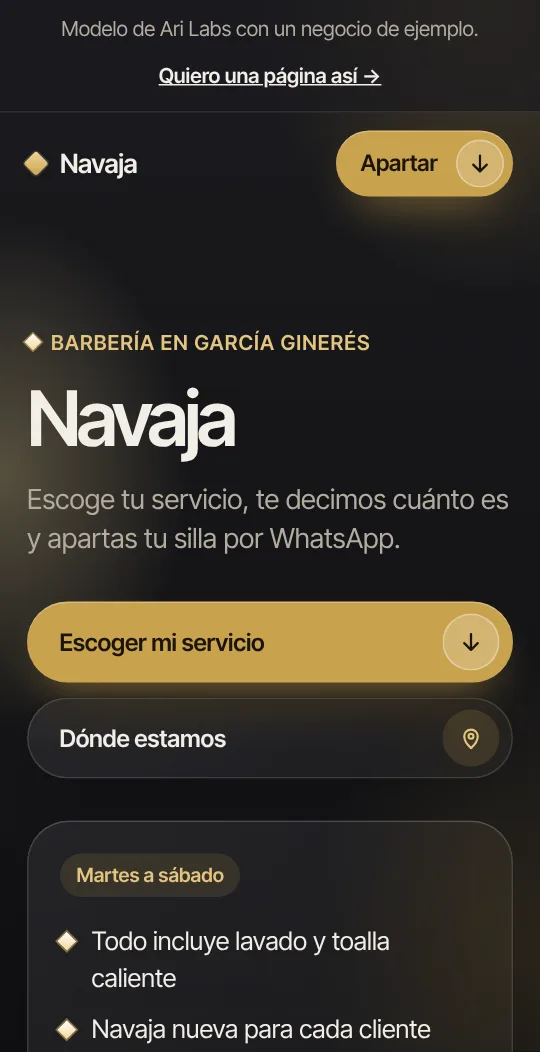
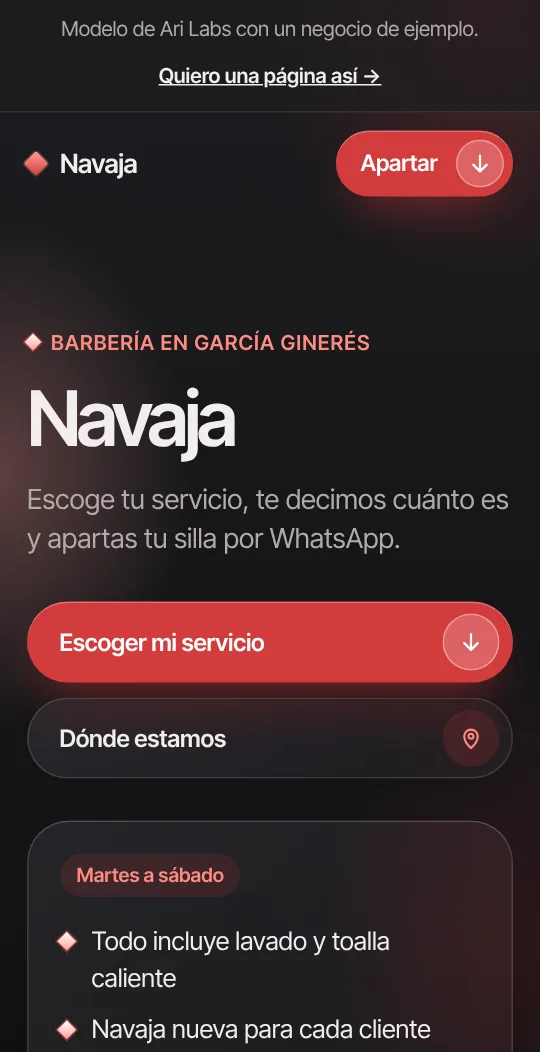
Paletas escogidas por Javi: Mis citas ciruela, Chela rosa mexicano, Navaja poste rojo, Flamboyán lavanda
Claude-Session: https://claude.ai/code/session_01Kc7UqCn6E9o6Li3sPnE4yz

diff --git a/diseno/capturas/mis-citas.html b/diseno/capturas/mis-citas.html
@@ -4,7 +4,7 @@
 <meta charset="utf-8">
 <meta name="viewport" content="width=360">
 <title>Mis citas · pantallas para la web</title>
-<!-- Pantallas de Mis citas dibujadas con el acabado de Ari Labs (su color: esmeralda).
+<!-- Pantallas de Mis citas dibujadas con el acabado de Ari Labs (su color: ciruela).
      Se abren con ?p=claro, ?p=oscuro o ?p=detalle y se fotografían a 360x760 con escala 1.5 (540x1140).
      Regenerar: node diseno/capturas/sacar.js (ver ese archivo). -->
 <link rel="preconnect" href="https://fonts.googleapis.com">
@@ -12,22 +12,22 @@
 <link href="https://fonts.googleapis.com/css2?family=Inter+Tight:wght@400;500;600&display=swap" rel="stylesheet">
 <style>
   :root{
-    --fondo:#eef5f2; --fondo2:#f8fbfa; --tinta:#1d2a26; --suave:#56655f; --linea:rgba(255,255,255,.8);
+    --fondo:#f3ecf5; --fondo2:#fcf9fd; --tinta:#2a1b2f; --suave:#685a6d; --linea:rgba(255,255,255,.8);
     --vidrio:rgba(255,255,255,.55); --vidrio2:rgba(255,255,255,.3);
-    --esmeralda:#169a72; --esmeralda2:#5fd3ad; --noche:#25302d; --chip:rgba(22,154,114,.12); --chip-t:#0f7556;
-    --alerta:rgba(214,140,40,.14); --alerta-t:#8a5310; --sombra:0 18px 40px -26px rgba(29,42,38,.45);
+    --esmeralda:#8a3f9e; --esmeralda2:#c98bdc; --noche:#2f2433; --chip:rgba(138,63,158,.12); --chip-t:#7a3290;
+    --alerta:rgba(214,140,40,.14); --alerta-t:#8a5310; --sombra:0 18px 40px -26px rgba(42,27,47,.45);
   }
   .oscuro{
-    --fondo:#0d1513; --fondo2:#131e1b; --tinta:#eaf3ef; --suave:#9fb2aa; --linea:rgba(255,255,255,.12);
+    --fondo:#120d15; --fondo2:#1b141f; --tinta:#f3ecf5; --suave:#b3a6b8; --linea:rgba(255,255,255,.12);
     --vidrio:rgba(255,255,255,.07); --vidrio2:rgba(255,255,255,.03);
-    --noche:#eaf3ef; --chip:rgba(95,211,173,.14); --chip-t:#8ee6c6; --alerta:rgba(240,170,80,.14); --alerta-t:#f3c27c;
+    --noche:#f3ecf5; --chip:rgba(201,139,220,.14); --chip-t:#e3b6ef; --alerta:rgba(240,170,80,.14); --alerta-t:#f3c27c;
     --sombra:0 18px 40px -26px rgba(0,0,0,.8);
   }
   *{box-sizing:border-box;margin:0}
   html,body{width:360px;height:760px;overflow:hidden}
   body{font:400 14px/1.4 "Inter Tight",system-ui,sans-serif;color:var(--tinta);-webkit-font-smoothing:antialiased;
-    background:radial-gradient(90% 40% at 85% 0%,rgba(95,211,173,.32),transparent 70%),radial-gradient(70% 40% at 0% 60%,rgba(100,182,255,.16),transparent 70%),linear-gradient(180deg,var(--fondo2),var(--fondo))}
-  .oscuro body,body.oscuro{background:radial-gradient(90% 40% at 85% 0%,rgba(22,154,114,.38),transparent 70%),radial-gradient(70% 40% at 0% 70%,rgba(100,182,255,.1),transparent 70%),linear-gradient(180deg,var(--fondo2),var(--fondo))}
+    background:radial-gradient(90% 40% at 85% 0%,rgba(201,139,220,.32),transparent 70%),radial-gradient(70% 40% at 0% 60%,rgba(100,182,255,.16),transparent 70%),linear-gradient(180deg,var(--fondo2),var(--fondo))}
+  .oscuro body,body.oscuro{background:radial-gradient(90% 40% at 85% 0%,rgba(138,63,158,.38),transparent 70%),radial-gradient(70% 40% at 0% 70%,rgba(100,182,255,.1),transparent 70%),linear-gradient(180deg,var(--fondo2),var(--fondo))}
   .pantalla{position:relative;height:760px;padding:0 18px;display:flex;flex-direction:column;gap:14px}
   .estado{display:flex;justify-content:space-between;align-items:center;height:38px;padding:0 8px;font-weight:600;font-size:13px}
   .estado i{display:inline-flex;gap:5px;align-items:center}
@@ -42,17 +42,17 @@
   .circ{display:grid;place-items:center;width:30px;height:30px;border-radius:50%;flex:none}
   .circ svg{width:15px;height:15px}
   .pildora{display:inline-flex;align-items:center;justify-content:space-between;gap:8px;height:40px;padding:0 5px 0 14px;border-radius:999px;font-weight:600;font-size:13px}
-  .pildora.principal{background:#1d2a26;color:#f4faf7;box-shadow:inset 0 1px 0 rgba(255,255,255,.18),0 10px 20px -12px rgba(0,0,0,.6)}
-  .pildora.principal .circ{background:linear-gradient(135deg,#9ff0d2,#5fd3ad);color:#0b3a2b}
+  .pildora.principal{background:#2a1b2f;color:#fbf6fd;box-shadow:inset 0 1px 0 rgba(255,255,255,.18),0 10px 20px -12px rgba(0,0,0,.6)}
+  .pildora.principal .circ{background:linear-gradient(135deg,#ecc8f5,#c98bdc);color:#3a1446}
   .pildora.cristal{background:rgba(255,255,255,.22);color:#fff;box-shadow:inset 0 0 0 1px rgba(255,255,255,.45)}
   .pildora.cristal .circ{background:rgba(255,255,255,.22);color:#fff}
   /* la próxima cita: placa de vidrio sobre esmeralda */
   .proxima{position:relative;overflow:hidden;border-radius:26px;padding:16px;color:#f2fbf7;
-    background:radial-gradient(120% 90% at 100% 0%,rgba(159,240,210,.55),transparent 55%),linear-gradient(140deg,#1aa77c,#0e7a5b);
-    box-shadow:inset 0 0 0 1px rgba(255,255,255,.35),inset 0 1px 0 rgba(255,255,255,.6),0 24px 40px -24px rgba(14,122,91,.8)}
+    background:radial-gradient(120% 90% at 100% 0%,rgba(236,200,245,.55),transparent 55%),linear-gradient(140deg,#9b4bb0,#6e2c82);
+    box-shadow:inset 0 0 0 1px rgba(255,255,255,.35),inset 0 1px 0 rgba(255,255,255,.6),0 24px 40px -24px rgba(110,44,130,.8)}
   .proxima::after{content:"";position:absolute;inset:-30% auto -30% 55%;width:30%;rotate:18deg;background:linear-gradient(90deg,transparent,rgba(255,255,255,.22),transparent)}
   .cuenta{display:inline-flex;align-items:center;gap:6px;padding:5px 10px;border-radius:999px;background:rgba(255,255,255,.18);font-size:11.5px;font-weight:600;box-shadow:inset 0 0 0 1px rgba(255,255,255,.3)}
-  .cuenta::before{content:"";width:6px;height:6px;border-radius:50%;background:#c9ffe9;box-shadow:0 0 8px #c9ffe9}
+  .cuenta::before{content:"";width:6px;height:6px;border-radius:50%;background:#f6dcff;box-shadow:0 0 8px #f6dcff}
   .proxima .hora{font-size:28px;font-weight:600;letter-spacing:-.04em;line-height:1;margin:12px 0 6px}
   .proxima .quien{font-weight:600;font-size:14px}
   .proxima .donde{opacity:.85;font-size:12.5px;margin:2px 0 14px}
@@ -61,9 +61,9 @@
   .dia{display:grid;justify-items:center;gap:3px;padding:8px 0 7px;border-radius:16px;font-size:11px;color:var(--suave)}
   .dia b{font-size:16px;font-weight:600;color:var(--tinta);letter-spacing:-.02em}
   .dia i{width:4px;height:4px;border-radius:50%;background:var(--esmeralda2)}
-  .dia.hoy{background:#1d2a26;color:#cfe9df;box-shadow:0 10px 20px -12px rgba(0,0,0,.6)}
+  .dia.hoy{background:#2a1b2f;color:#ead6f1;box-shadow:0 10px 20px -12px rgba(0,0,0,.6)}
   .dia.hoy b{color:#fff}
-  .oscuro .dia.hoy{background:linear-gradient(140deg,#1aa77c,#0e7a5b)}
+  .oscuro .dia.hoy{background:linear-gradient(140deg,#9b4bb0,#6e2c82)}
   .titulo-lista{display:flex;justify-content:space-between;align-items:center}
   .titulo-lista h2{font-size:19px;font-weight:600;letter-spacing:-.03em}
   .seg{display:flex;padding:3px;border-radius:999px;font-size:12px;font-weight:600}
@@ -79,8 +79,8 @@
   .chip{font-size:11px;font-weight:600;padding:3px 8px;border-radius:999px;background:var(--chip);color:var(--chip-t)}
   .chip.debe{background:var(--alerta);color:var(--alerta-t)}
   .lugar{display:flex;align-items:center;gap:6px;font-size:12px;color:var(--suave)}
-  .lugar::before{content:"";width:6px;height:6px;rotate:45deg;background:linear-gradient(135deg,#fff,var(--esmeralda2));box-shadow:0 0 0 1px rgba(22,154,114,.45)}
-  .oscuro .arriba .pildora.principal{background:#eaf3ef;color:#0d1513}
+  .lugar::before{content:"";width:6px;height:6px;rotate:45deg;background:linear-gradient(135deg,#fff,var(--esmeralda2));box-shadow:0 0 0 1px rgba(138,63,158,.45)}
+  .oscuro .arriba .pildora.principal{background:#f3ecf5;color:#120d15}
   .menu{position:absolute;left:14px;right:14px;bottom:18px;height:62px;border-radius:999px;display:grid;grid-template-columns:repeat(5,1fr);align-items:center;padding:0 6px}
   .menu span{display:grid;justify-items:center;gap:2px;font-size:10px;font-weight:600;color:var(--suave)}
   .menu svg{width:19px;height:19px}
@@ -95,12 +95,12 @@
   .accion{display:grid;justify-items:center;gap:6px;padding:12px 0 10px;font-size:11.5px;font-weight:600}
   .accion .circ{width:38px;height:38px;background:var(--chip);color:var(--esmeralda)}
   .accion .circ svg{width:17px;height:17px}
-  .accion.wa .circ{background:linear-gradient(135deg,#9ff0d2,#5fd3ad);color:#0b3a2b}
+  .accion.wa .circ{background:linear-gradient(135deg,#ecc8f5,#c98bdc);color:#3a1446}
   .interruptor{display:flex;justify-content:space-between;align-items:center;padding:12px 16px;font-weight:500}
-  .interruptor+.interruptor{border-top:1px solid rgba(29,42,38,.07)}
-  .tog{width:42px;height:25px;border-radius:999px;background:rgba(29,42,38,.12);position:relative;box-shadow:inset 0 0 0 1px rgba(29,42,38,.06)}
+  .interruptor+.interruptor{border-top:1px solid rgba(42,27,47,.07)}
+  .tog{width:42px;height:25px;border-radius:999px;background:rgba(42,27,47,.12);position:relative;box-shadow:inset 0 0 0 1px rgba(42,27,47,.06)}
   .tog::after{content:"";position:absolute;top:3px;left:3px;width:19px;height:19px;border-radius:50%;background:#fff;box-shadow:0 2px 4px rgba(0,0,0,.2)}
-  .tog.si{background:linear-gradient(135deg,#5fd3ad,#169a72)}
+  .tog.si{background:linear-gradient(135deg,#c98bdc,#8a3f9e)}
   .tog.si::after{left:20px}
   .datos{display:grid;grid-template-columns:1fr 1fr;gap:12px 10px;padding:14px 16px}
   .datos div{display:grid;gap:1px}
@@ -110,7 +110,7 @@
   .canciones h3{font-size:14px;font-weight:600;margin-bottom:8px}
   .canciones ul{list-style:none;padding:0;display:grid;gap:6px;font-size:13px}
   .canciones li{display:flex;gap:9px;align-items:center}
-  .canciones li::before{content:"";width:7px;height:7px;rotate:45deg;background:linear-gradient(135deg,#fff,#5fd3ad);box-shadow:0 0 0 1px rgba(22,154,114,.5);flex:none}
+  .canciones li::before{content:"";width:7px;height:7px;rotate:45deg;background:linear-gradient(135deg,#fff,#c98bdc);box-shadow:0 0 0 1px rgba(138,63,158,.5);flex:none}
 </style>
 </head>
 <body>

diff --git a/index.html b/index.html
@@ -358,12 +358,12 @@
           <a class="boton secundario" href="modelos/restaurante/">Ver modelo<span class="icono"><svg viewBox="0 0 24 24" fill="none" stroke="currentColor" stroke-width="2" stroke-linecap="round" stroke-linejoin="round" aria-hidden="true"><path d="M7 17 17 7M9 7h8v8"/></svg></span></a></div>
         </article>
         <article class="placa hielo inclina">
-          <div class="marco"><img src="img/modelo-barberia.webp" width="540" height="1052" loading="lazy" decoding="async" alt="Modelo de barbería: Navaja, en grafito y latón, con el botón para escoger el servicio."></div>
+          <div class="marco"><img src="img/modelo-barberia.webp" width="540" height="1052" loading="lazy" decoding="async" alt="Modelo de barbería: Navaja, en negro y rojo, con el botón para escoger el servicio."></div>
           <div class="texto"><b>Barbería o estética</b><span>La tabla de precios: marcas tus servicios y sale la cuenta.</span>
           <a class="boton secundario" href="modelos/barberia/">Ver modelo<span class="icono"><svg viewBox="0 0 24 24" fill="none" stroke="currentColor" stroke-width="2" stroke-linecap="round" stroke-linejoin="round" aria-hidden="true"><path d="M7 17 17 7M9 7h8v8"/></svg></span></a></div>
         </article>
         <article class="placa hielo inclina">
-          <div class="marco"><img src="img/modelo-consultorio.webp" width="540" height="1052" loading="lazy" decoding="async" alt="Modelo de consultorio dental: Flamboyán, en rojo sobre blanco, con el botón para apartar cita."></div>
+          <div class="marco"><img src="img/modelo-consultorio.webp" width="540" height="1052" loading="lazy" decoding="async" alt="Modelo de consultorio dental: Flamboyán, en lavanda sobre blanco, con el botón para apartar cita."></div>
           <div class="texto"><b>Consultorio</b><span>Escoges día y hora; la cita llega por WhatsApp.</span>
           <a class="boton secundario" href="modelos/consultorio/">Ver modelo<span class="icono"><svg viewBox="0 0 24 24" fill="none" stroke="currentColor" stroke-width="2" stroke-linecap="round" stroke-linejoin="round" aria-hidden="true"><path d="M7 17 17 7M9 7h8v8"/></svg></span></a></div>
         </article>

diff --git a/modelos/consultorio/index.html b/modelos/consultorio/index.html
@@ -6,16 +6,16 @@
 <title>Clínica Dental Flamboyán · Modelo de consultorio · Ari Labs</title>
 <meta name="description" content="Modelo de página web para consultorio o clínica, de Ari Labs. Negocio de ejemplo.">
 <meta name="robots" content="noindex">
-<meta name="theme-color" content="#fbf5f5">
+<meta name="theme-color" content="#f7f6fe">
 <link rel="icon" href="../../favicon.svg" type="image/svg+xml">
 <link rel="preconnect" href="https://fonts.googleapis.com">
 <link rel="preconnect" href="https://fonts.gstatic.com" crossorigin>
 <link href="https://fonts.googleapis.com/css2?family=Inter+Tight:wght@400;500;600&display=swap" rel="stylesheet">
 <link rel="stylesheet" href="../acabado.css">
 <style>
-  /* Clínica Dental Flamboyán: rojo flamboyán sobre blanco limpio. */
-  :root{ --acento:#d0393f; --acento-claro:#ffb4a8; --acento-texto:#b02a31; --sobre-acento:#fff;
-    --fondo:#f4ecec; --fondo-2:#fdf9f8; --tinta:#2a1c1e; --suave:#6a585a }
+  /* Clínica Dental Flamboyán: lavanda sobre blanco (paleta escogida por Javi). */
+  :root{ --acento:#6d5bd0; --acento-claro:#cdc4fb; --acento-texto:#5a48bb; --sobre-acento:#fff;
+    --fondo:#efedfa; --fondo-2:#fbfaff; --tinta:#1f1b38; --suave:#5f5b78 }
   .cita{display:grid;gap:14px;align-items:start}
   @media (min-width:900px){ .cita{grid-template-columns:minmax(0,1.4fr) minmax(0,1fr)} .resumen{position:sticky;top:96px} }
   fieldset{border:0;margin:0;padding:0 0 18px}

diff --git a/modelos/restaurante/index.html b/modelos/restaurante/index.html
@@ -6,16 +6,16 @@
 <title>La Cocina de Chela · Modelo de restaurante · Ari Labs</title>
 <meta name="description" content="Modelo de página web para restaurante o cocina económica, de Ari Labs. Negocio de ejemplo.">
 <meta name="robots" content="noindex">
-<meta name="theme-color" content="#f7efe8">
+<meta name="theme-color" content="#fdf6f8">
 <link rel="icon" href="../../favicon.svg" type="image/svg+xml">
 <link rel="preconnect" href="https://fonts.googleapis.com">
 <link rel="preconnect" href="https://fonts.gstatic.com" crossorigin>
 <link href="https://fonts.googleapis.com/css2?family=Inter+Tight:wght@400;500;600&display=swap" rel="stylesheet">
 <link rel="stylesheet" href="../acabado.css">
 <style>
-  /* La Cocina de Chela: color achiote sobre un blanco cálido. */
-  :root{ --acento:#c4502a; --acento-claro:#f4b48e; --acento-texto:#a2401d; --sobre-acento:#fff;
-    --fondo:#f3ebe4; --fondo-2:#fbf7f3; --tinta:#2b1e19; --suave:#68564e }
+  /* La Cocina de Chela: rosa mexicano sobre blanco (paleta escogida por Javi). */
+  :root{ --acento:#d6336c; --acento-claro:#ffb3cc; --acento-texto:#b8265a; --sobre-acento:#fff;
+    --fondo:#f8ecf0; --fondo-2:#fefafb; --tinta:#2c1820; --suave:#6c5560 }
   .hoy{padding:clamp(24px,3vw,36px)}
   .hoy .guiso{font-weight:600;font-size:clamp(2.2rem,1.6rem + 2.4vw,3.4rem);line-height:.95;letter-spacing:-.05em;margin:.8rem 0 .7rem}
   .hoy p{margin:0 0 1.4rem;color:var(--suave)}

diff --git a/modelos/barberia/index.html b/modelos/barberia/index.html
@@ -6,16 +6,16 @@
 <title>Barbería Navaja · Modelo de barbería · Ari Labs</title>
 <meta name="description" content="Modelo de página web para barbería o estética, de Ari Labs. Negocio de ejemplo.">
 <meta name="robots" content="noindex">
-<meta name="theme-color" content="#131315">
+<meta name="theme-color" content="#151517">
 <link rel="icon" href="../../favicon.svg" type="image/svg+xml">
 <link rel="preconnect" href="https://fonts.googleapis.com">
 <link rel="preconnect" href="https://fonts.gstatic.com" crossorigin>
 <link href="https://fonts.googleapis.com/css2?family=Inter+Tight:wght@400;500;600&display=swap" rel="stylesheet">
 <link rel="stylesheet" href="../acabado.css">
 <style>
-  /* Barbería Navaja: latón sobre grafito. */
-  :root{ --acento:#c9a24e; --acento-claro:#f0d896; --acento-texto:#e3c57f; --sobre-acento:#1b1507;
-    --fondo:#101012; --fondo-2:#1a1a1e; --tinta:#f2eee7; --suave:#b3ac9f }
+  /* Barbería Navaja: negro con rojo de poste de barbería (paleta escogida por Javi). */
+  :root{ --acento:#d23c3c; --acento-claro:#ff9f97; --acento-texto:#ff8b82; --sobre-acento:#fff;
+    --fondo:#111113; --fondo-2:#1c1c20; --tinta:#f2eeec; --suave:#b3aaa8 }
   .tabla{display:grid;gap:14px;align-items:start}
   @media (min-width:900px){ .tabla{grid-template-columns:minmax(0,1.4fr) minmax(0,1fr)} .cuenta{position:sticky;top:96px} }
   .servicios{padding:6px}

diff --git a/diseno/DECISIONES.md b/diseno/DECISIONES.md
@@ -75,11 +75,11 @@ Para verla en local: `cd diseno/muestra && python3 -m http.server` (usa módulos
 - Siguiente sesión: hacer primero Mis citas en la web, después los 3 modelos; vista previa y video al final.
 
 ## Hecho (31/10, tarde): Mis citas y modelos con el acabado de Ari Labs
-- Mis citas en la web: 3 pantallas nuevas dibujadas en `diseno/capturas/mis-citas.html` (color propio: esmeralda;
+- Mis citas en la web: 3 pantallas nuevas dibujadas en `diseno/capturas/mis-citas.html` (color propio: ciruela, escogido por Javi;
   acabado Ari Labs: vidrio, píldoras con círculo, rombos). Se fotografían con `node diseno/capturas/sacar.js`
   (servidor local en el puerto 8123) y quedan en img/citas-*.webp. La app real sigue igual por ahora.
 - Modelos rehechos con una base común `modelos/acabado.css` + `modelos/acabado.js` (la misma mano) y cada uno con su
-  color: La Cocina de Chela (achiote), Navaja (latón sobre grafito, oscura), Flamboyán (rojo flamboyán). Conservan
+  color: La Cocina de Chela (rosa mexicano), Navaja (negro y rojo de poste, oscura), Flamboyán (lavanda); paletas escogidas por Javi el 31/10. Conservan
   lo que hacían: guiso del día, cuenta de la barbería, cita armada para WhatsApp. Capturas nuevas en img/modelo-*.webp.
 - **Regla (31/10): la paleta de colores siempre la escoge Javi.** Antes de usar colores nuevos, enseñarle varias
   opciones (página de muestras) y preguntarle con botones. Muestras de esta vuelta: https://claude.ai/artifact/CSyFZQUVWcjZgxcTtbbyDD
